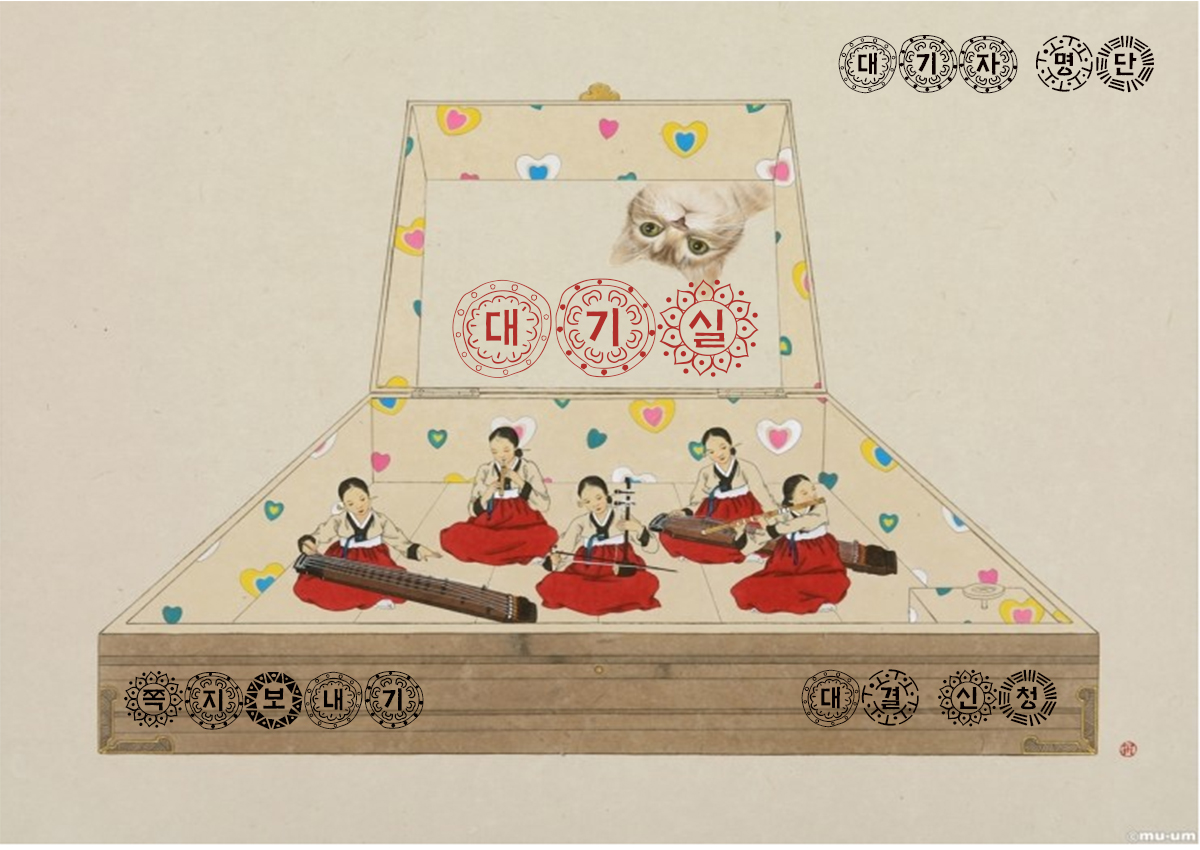
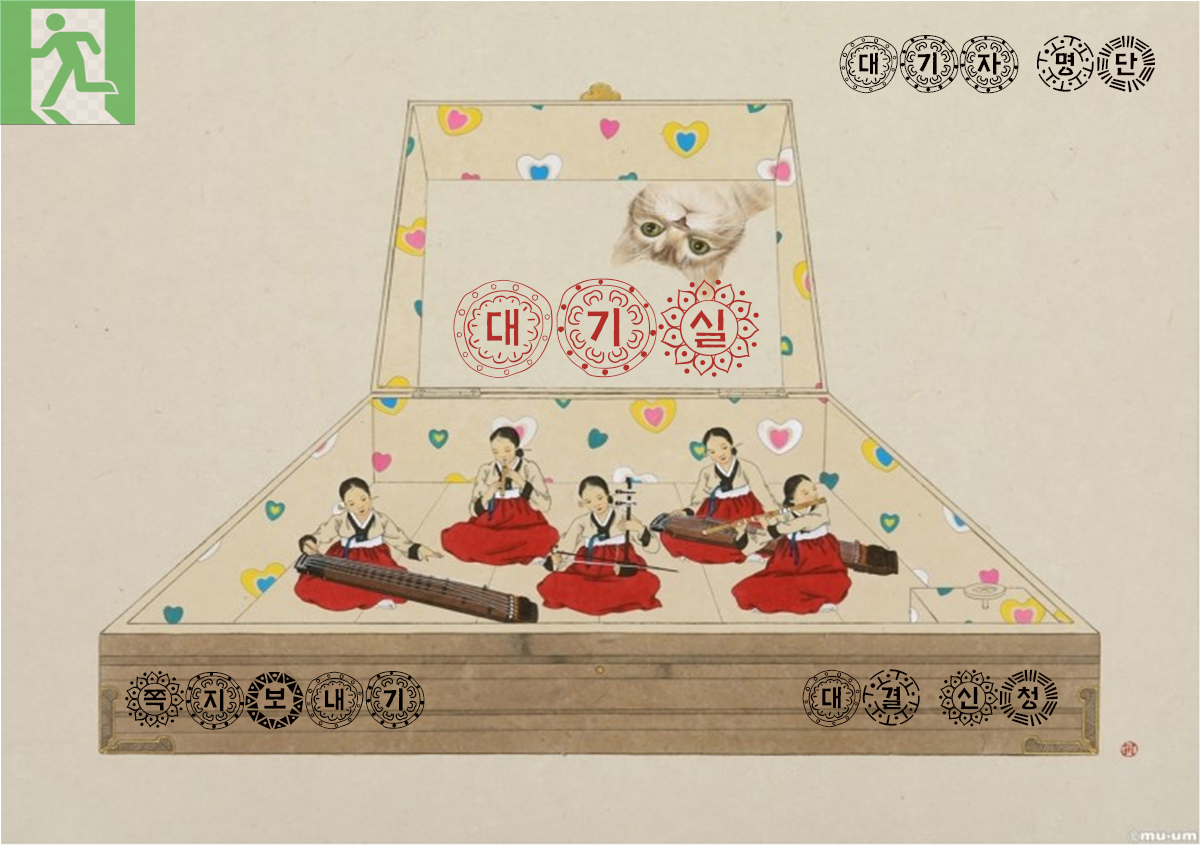
로그아웃까지 구현해두어서 게임을 완성함

diff --git a/OperatingSystemProjectTaeike/src/client/SelectOpponent.java b/OperatingSystemProjectTaeike/src/client/SelectOpponent.java
@@ -106,6 +106,28 @@ public class SelectOpponent {
 		}
 	});
     
+    JButton logOut = new JButton();
+    logOut.setBounds(0,0, 200, 200);
+    logOut.setOpaque(false);
+    logOut.setContentAreaFilled(false);
+    logOut.setBorderPainted(false);
+    logOut.addActionListener(new ActionListener() {
+		
+		@Override
+		public void actionPerformed(ActionEvent e) {
+			// TODO Auto-generated method stub
+			try {
+				writer.writeObject(new ChatMessage(ChatMessage.MsgType.LOGOUT, user,"",""));
+				writer.flush();
+				frame.setVisible(false);
+				frame = null;
+			} catch(Exception ex) {
+				ex.printStackTrace();
+			}	
+		}
+	});
+    
+    
    mainPanel = new JPanel(){
     	@Override
     	protected void paintComponent(Graphics g) {
@@ -123,7 +145,7 @@ public class SelectOpponent {
   
     mainPanel.add(sendButton);
     mainPanel.add(messageSendButton);
- 
+    mainPanel.add(logOut);
     mainPanel.add( cScroller);
     mainPanel.setBounds(0, 0, 1200, 850);
    

diff --git a/OperatingSystemProjectTaeike/src/util/Make_GamePanel.java b/OperatingSystemProjectTaeike/src/util/Make_GamePanel.java
@@ -122,6 +122,9 @@ public class Make_GamePanel extends JPanel implements ActionListener{
 
 		hinButton.setBounds(910,778,30,30);
 		hinButton.addActionListener(new HindButtonHandler());
+		hinButton.setOpaque(false);
+		hinButton.setContentAreaFilled(false);
+		hinButton.setBorderPainted(false);
 		this.add(hinButton);
 
 		progressBarTimer = new Timer(1000,new TimeBar());
@@ -407,7 +410,7 @@ public class Make_GamePanel extends JPanel implements ActionListener{
 		return totalScore;
 	}
 	public void hindrance(){
-		opHind = 5;
+		opHind = 10;
 		hindTimer.start();
 		System.out.println("ddd");
 	}
